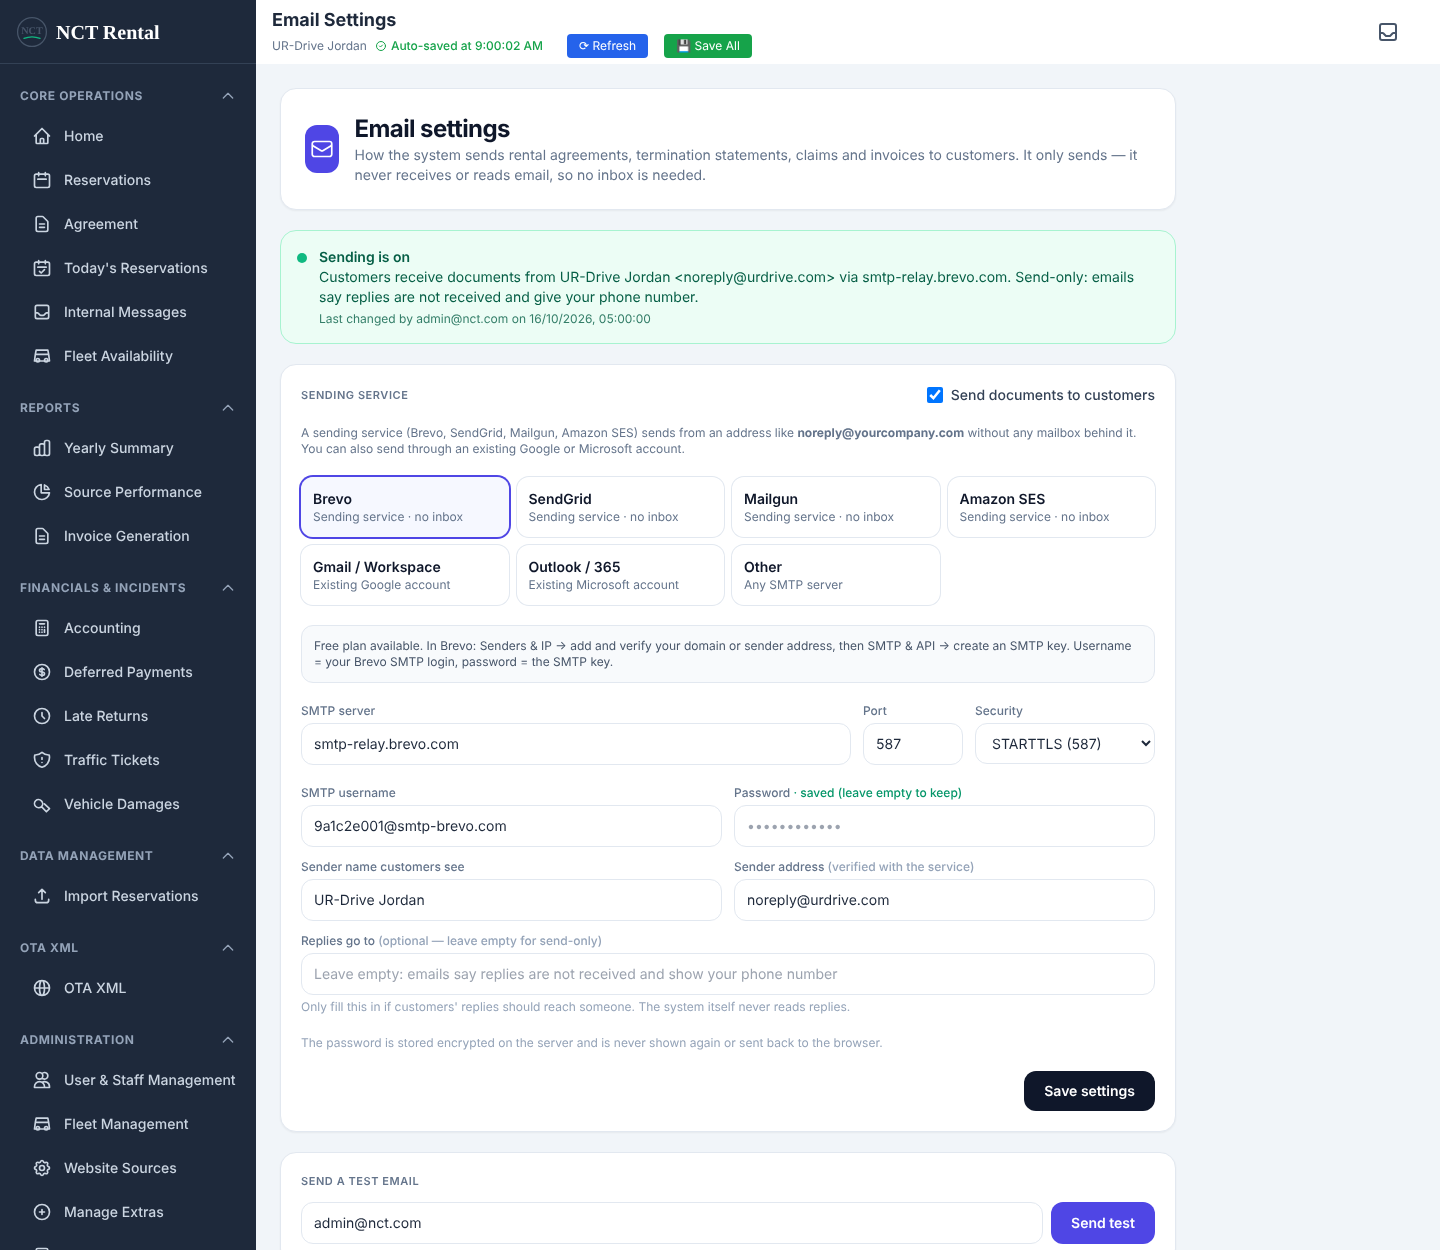
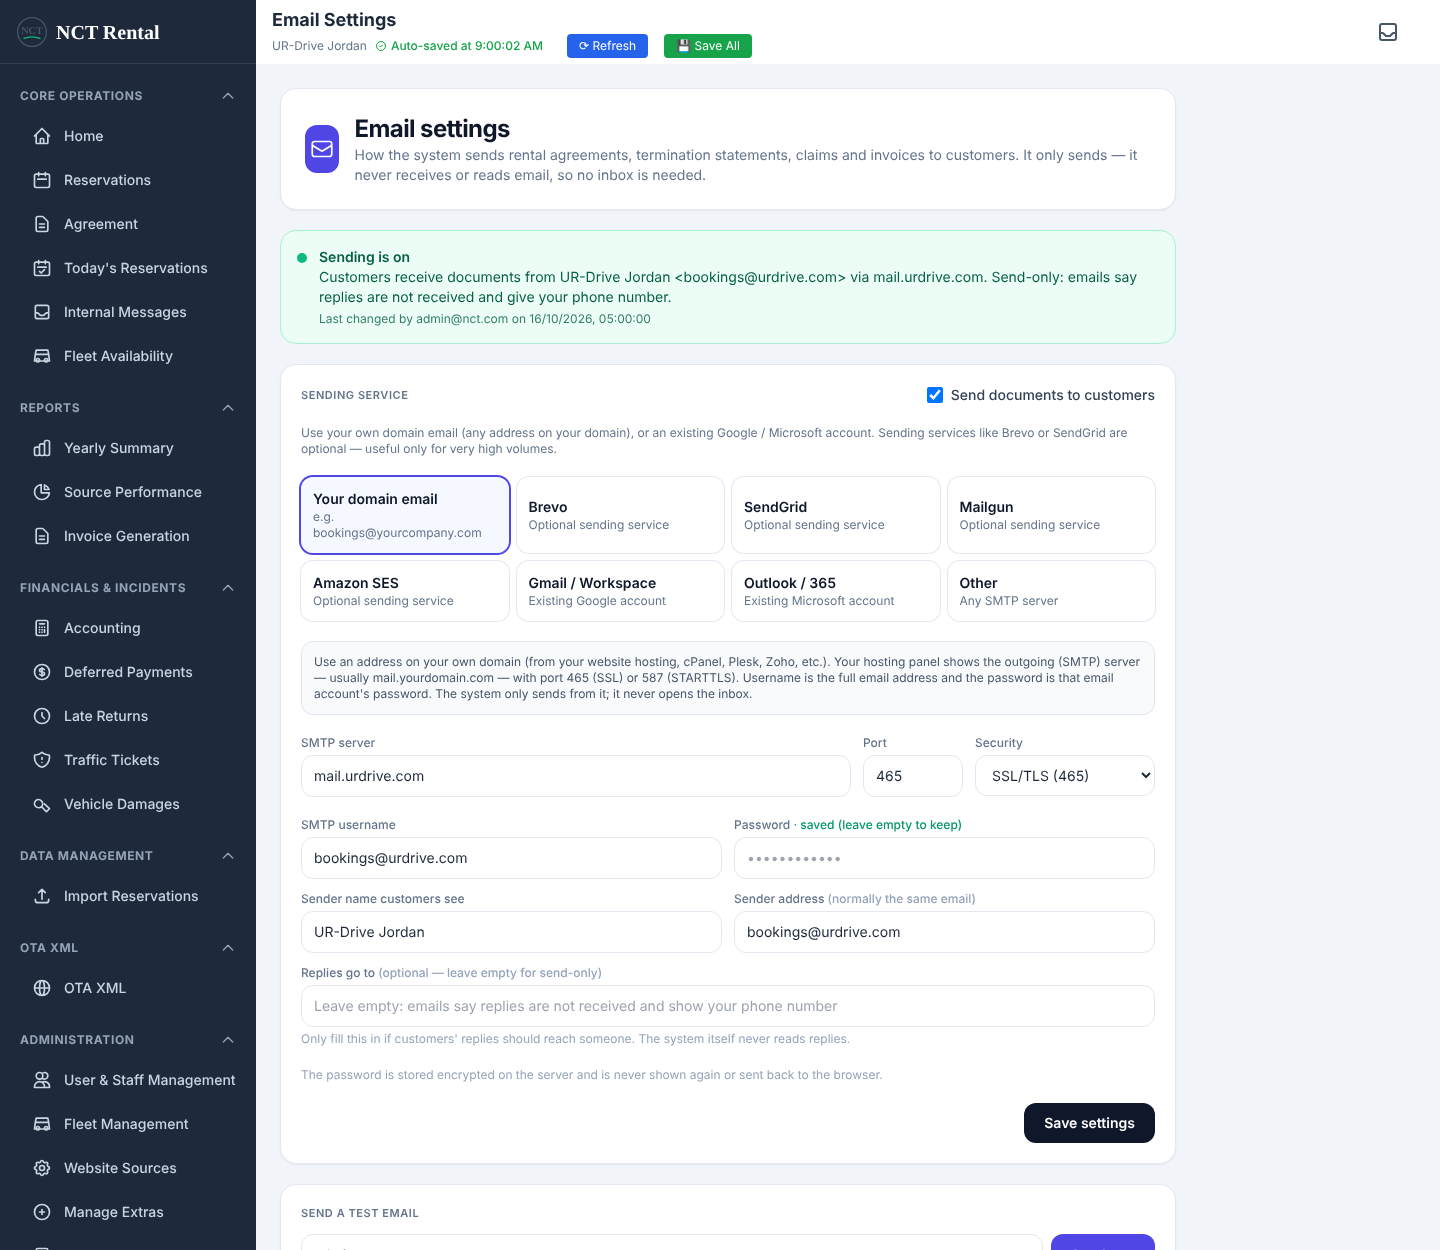
Email settings: make your own domain email the default option
"Your domain email" is now the first and default choice, with hosting
(cPanel/Plesk) guidance: SMTP server mail.<domain> filled in from the
address, port 465 SSL, the full address as username and the account's own
password. Sending services are labelled as optional.

Claude-Session: https://claude.ai/code/session_01SZbkRoLvbcfyYadGhzb7Rr

diff --git a/components/EmailSettingsView.tsx b/components/EmailSettingsView.tsx
@@ -2,10 +2,11 @@ import React, { useEffect, useState } from 'react';
 import { getMailSettings, MailSettingsView, saveMailSettings, sendTestEmail } from '../firebase/api';
 
 const PROVIDERS: { key: string; label: string; sub: string; host: string; port: number; security: 'STARTTLS' | 'SSL'; user?: string; help: string }[] = [
-  { key: 'brevo', label: 'Brevo', sub: 'Sending service · no inbox', host: 'smtp-relay.brevo.com', port: 587, security: 'STARTTLS', help: 'Free plan available. In Brevo: Senders & IP → add and verify your domain or sender address, then SMTP & API → create an SMTP key. Username = your Brevo SMTP login, password = the SMTP key.' },
-  { key: 'sendgrid', label: 'SendGrid', sub: 'Sending service · no inbox', host: 'smtp.sendgrid.net', port: 587, security: 'STARTTLS', user: 'apikey', help: 'In SendGrid: verify a sender or your domain, then create an API key with "Mail Send" permission. Username is the word apikey, password is the API key.' },
-  { key: 'mailgun', label: 'Mailgun', sub: 'Sending service · no inbox', host: 'smtp.mailgun.org', port: 587, security: 'STARTTLS', help: 'In Mailgun: add and verify your sending domain, then create SMTP credentials for it (e.g. postmaster@mg.yourdomain.com).' },
-  { key: 'ses', label: 'Amazon SES', sub: 'Sending service · no inbox', host: 'email-smtp.eu-west-1.amazonaws.com', port: 587, security: 'STARTTLS', help: 'In Amazon SES: verify your domain, then create SMTP credentials. Use the SMTP endpoint of your SES region.' },
+  { key: 'domain', label: 'Your domain email', sub: 'e.g. bookings@yourcompany.com', host: '', port: 465, security: 'SSL', help: 'Use an address on your own domain (from your website hosting, cPanel, Plesk, Zoho, etc.). Your hosting panel shows the outgoing (SMTP) server — usually mail.yourdomain.com — with port 465 (SSL) or 587 (STARTTLS). Username is the full email address and the password is that email account\'s password. The system only sends from it; it never opens the inbox.' },
+  { key: 'brevo', label: 'Brevo', sub: 'Optional sending service', host: 'smtp-relay.brevo.com', port: 587, security: 'STARTTLS', help: 'Free plan available. In Brevo: Senders & IP → add and verify your domain or sender address, then SMTP & API → create an SMTP key. Username = your Brevo SMTP login, password = the SMTP key.' },
+  { key: 'sendgrid', label: 'SendGrid', sub: 'Optional sending service', host: 'smtp.sendgrid.net', port: 587, security: 'STARTTLS', user: 'apikey', help: 'In SendGrid: verify a sender or your domain, then create an API key with "Mail Send" permission. Username is the word apikey, password is the API key.' },
+  { key: 'mailgun', label: 'Mailgun', sub: 'Optional sending service', host: 'smtp.mailgun.org', port: 587, security: 'STARTTLS', help: 'In Mailgun: add and verify your sending domain, then create SMTP credentials for it (e.g. postmaster@mg.yourdomain.com).' },
+  { key: 'ses', label: 'Amazon SES', sub: 'Optional sending service', host: 'email-smtp.eu-west-1.amazonaws.com', port: 587, security: 'STARTTLS', help: 'In Amazon SES: verify your domain, then create SMTP credentials. Use the SMTP endpoint of your SES region.' },
   { key: 'gmail', label: 'Gmail / Workspace', sub: 'Existing Google account', host: 'smtp.gmail.com', port: 587, security: 'STARTTLS', help: 'Uses an existing Google account only to send. Turn on 2-Step Verification, create an App password (Google Account → Security → App passwords) and paste it as the password.' },
   { key: 'outlook', label: 'Outlook / 365', sub: 'Existing Microsoft account', host: 'smtp.office365.com', port: 587, security: 'STARTTLS', help: 'Uses an existing Microsoft 365 account only to send. SMTP AUTH must be allowed for it in Microsoft 365 admin.' },
   { key: 'custom', label: 'Other', sub: 'Any SMTP server', host: '', port: 587, security: 'STARTTLS', help: 'Ask your email or hosting provider for the SMTP server, port and login.' },
@@ -15,8 +16,8 @@ const inputCls = 'w-full px-3 py-2.5 bg-white border border-slate-200 rounded-xl
 
 const EmailSettingsView: React.FC<{ defaultFromName?: string; defaultTestTo?: string }> = ({ defaultFromName, defaultTestTo }) => {
   const [loaded, setLoaded] = useState<MailSettingsView | null>(null);
-  const [form, setForm] = useState({ enabled: true, host: 'smtp-relay.brevo.com', port: 587, security: 'STARTTLS' as 'STARTTLS' | 'SSL', username: '', password: '', fromAddress: '', fromName: defaultFromName || '', replyTo: '' });
-  const [provider, setProvider] = useState('brevo');
+  const [form, setForm] = useState({ enabled: true, host: '', port: 465, security: 'SSL' as 'STARTTLS' | 'SSL', username: '', password: '', fromAddress: '', fromName: defaultFromName || '', replyTo: '' });
+  const [provider, setProvider] = useState('domain');
   const [busy, setBusy] = useState<'save' | 'test' | null>(null);
   const [msg, setMsg] = useState<{ tone: 'ok' | 'err'; text: string } | null>(null);
   const [testTo, setTestTo] = useState(defaultTestTo || '');
@@ -27,7 +28,7 @@ const EmailSettingsView: React.FC<{ defaultFromName?: string; defaultTestTo?: st
     setForm(f => ({ ...f, enabled: s.source === 'none' ? true : s.enabled, host: s.host || f.host, port: s.port || f.port, security: s.security || f.security,
       username: s.username || '', password: '', fromAddress: s.fromAddress || '', fromName: s.fromName || f.fromName, replyTo: s.replyTo || '' }));
     const p = PROVIDERS.find(x => x.host && x.host === s.host);
-    setProvider(p ? p.key : s.host ? 'custom' : 'brevo');
+    setProvider(p ? p.key : s.host ? 'domain' : 'domain');
   };
 
   useEffect(() => { getMailSettings().then(apply).catch(e => setLoadError(e.message)); }, []);
@@ -35,7 +36,10 @@ const EmailSettingsView: React.FC<{ defaultFromName?: string; defaultTestTo?: st
   const pick = (key: string) => {
     setProvider(key);
     const p = PROVIDERS.find(x => x.key === key)!;
-    if (key !== 'custom') setForm(f => ({ ...f, host: p.host, port: p.port, security: p.security, username: p.user && !f.username ? p.user : f.username }));
+    if (key === 'domain') {
+      const dom = (form.username.split('@')[1] || form.fromAddress.split('@')[1] || '').trim();
+      setForm(f => ({ ...f, host: f.host && !PROVIDERS.some(x => x.host && x.host === f.host) ? f.host : dom ? `mail.${dom}` : '', port: 465, security: 'SSL' }));
+    } else if (key !== 'custom') setForm(f => ({ ...f, host: p.host, port: p.port, security: p.security, username: p.user && !f.username ? p.user : f.username }));
   };
 
   const save = async () => {
@@ -100,7 +104,7 @@ const EmailSettingsView: React.FC<{ defaultFromName?: string; defaultTestTo?: st
             Send documents to customers
           </label>
         </div>
-        <p className="text-xs text-slate-500 -mt-2">A sending service (Brevo, SendGrid, Mailgun, Amazon SES) sends from an address like <b>noreply@yourcompany.com</b> without any mailbox behind it. You can also send through an existing Google or Microsoft account.</p>
+        <p className="text-xs text-slate-500 -mt-2">Use your own domain email (any address on your domain), or an existing Google / Microsoft account. Sending services like Brevo or SendGrid are optional — useful only for very high volumes.</p>
         <div className="grid grid-cols-2 md:grid-cols-4 gap-2">
           {PROVIDERS.map(p => (
             <button key={p.key} onClick={() => pick(p.key)} className={`p-3 rounded-xl text-left ring-1 ${provider === p.key ? 'ring-2 ring-indigo-600 bg-indigo-50/50' : 'ring-slate-200 hover:bg-slate-50'}`}>
@@ -121,13 +125,14 @@ const EmailSettingsView: React.FC<{ defaultFromName?: string; defaultTestTo?: st
         </div>
         <div className="grid grid-cols-1 md:grid-cols-2 gap-3">
           <label className="block"><span className="block text-xs font-medium text-slate-500 mb-1">SMTP username</span>
-            <input className={inputCls} value={form.username} onChange={e => setForm(f => ({ ...f, username: e.target.value }))} placeholder={provider === 'sendgrid' ? 'apikey' : 'Login from your sending service'} autoComplete="off" /></label>
+            <input className={inputCls} value={form.username} onChange={e => { const v = e.target.value; setForm(f => ({ ...f, username: v, host: provider === 'domain' && (!f.host || f.host.startsWith('mail.')) && v.includes('@') ? `mail.${v.split('@')[1]}` : f.host, fromAddress: provider === 'domain' && (!f.fromAddress || f.fromAddress === f.username) ? v : f.fromAddress })); }}
+              placeholder={provider === 'domain' ? 'bookings@yourcompany.com' : provider === 'sendgrid' ? 'apikey' : 'Login from your sending service'} autoComplete="off" /></label>
           <label className="block"><span className="block text-xs font-medium text-slate-500 mb-1">Password {loaded?.passwordSet && <span className="text-emerald-600">· saved (leave empty to keep)</span>}</span>
-            <input type="password" className={inputCls} value={form.password} onChange={e => setForm(f => ({ ...f, password: e.target.value }))} placeholder={loaded?.passwordSet ? '••••••••••••' : provider === 'gmail' ? '16-character app password' : provider === 'custom' || provider === 'outlook' ? 'Password' : 'SMTP key / API key'} autoComplete="new-password" /></label>
+            <input type="password" className={inputCls} value={form.password} onChange={e => setForm(f => ({ ...f, password: e.target.value }))} placeholder={loaded?.passwordSet ? '••••••••••••' : provider === 'gmail' ? '16-character app password' : provider === 'domain' ? 'The email account\'s password' : provider === 'custom' || provider === 'outlook' ? 'Password' : 'SMTP key / API key'} autoComplete="new-password" /></label>
           <label className="block"><span className="block text-xs font-medium text-slate-500 mb-1">Sender name customers see</span>
             <input className={inputCls} value={form.fromName} onChange={e => setForm(f => ({ ...f, fromName: e.target.value }))} placeholder="UR-Drive Jordan" /></label>
-          <label className="block"><span className="block text-xs font-medium text-slate-500 mb-1">Sender address <span className="text-slate-400">(verified with the service)</span></span>
-            <input className={inputCls} value={form.fromAddress} onChange={e => setForm(f => ({ ...f, fromAddress: e.target.value }))} placeholder="noreply@yourcompany.com" /></label>
+          <label className="block"><span className="block text-xs font-medium text-slate-500 mb-1">Sender address <span className="text-slate-400">(normally the same email)</span></span>
+            <input className={inputCls} value={form.fromAddress} onChange={e => setForm(f => ({ ...f, fromAddress: e.target.value }))} placeholder="bookings@yourcompany.com" /></label>
           <label className="block md:col-span-2"><span className="block text-xs font-medium text-slate-500 mb-1">Replies go to <span className="text-slate-400">(optional — leave empty for send-only)</span></span>
             <input className={inputCls} value={form.replyTo} onChange={e => setForm(f => ({ ...f, replyTo: e.target.value }))} placeholder="Leave empty: emails say replies are not received and show your phone number" />
             <span className="block text-xs text-slate-400 mt-1">Only fill this in if customers' replies should reach someone. The system itself never reads replies.</span></label>
